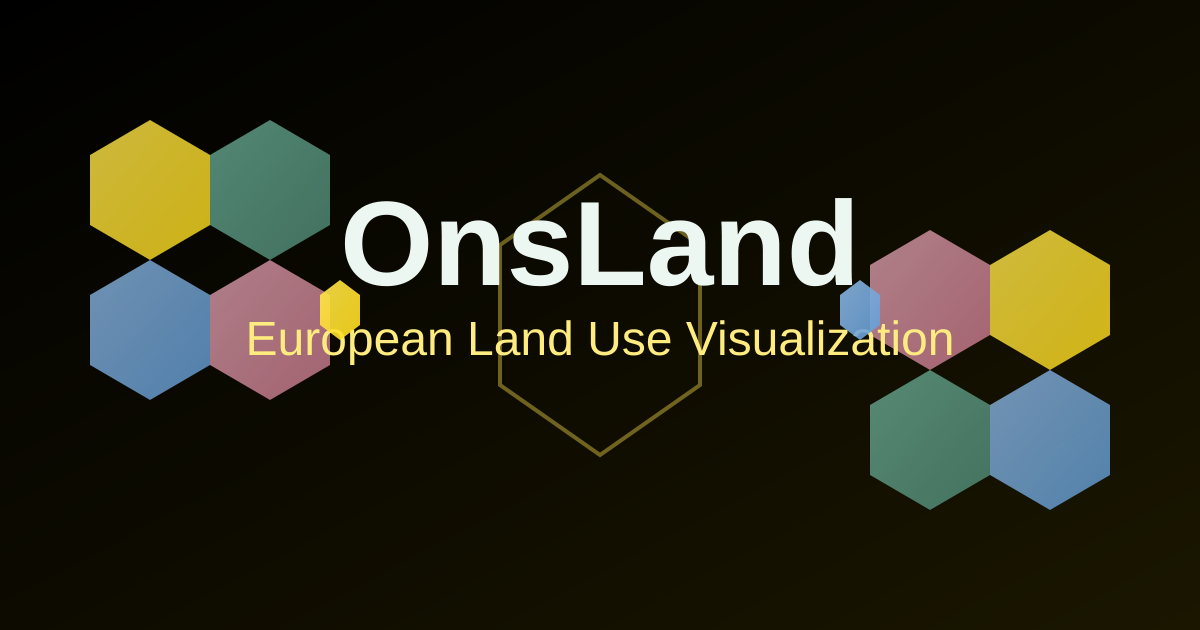
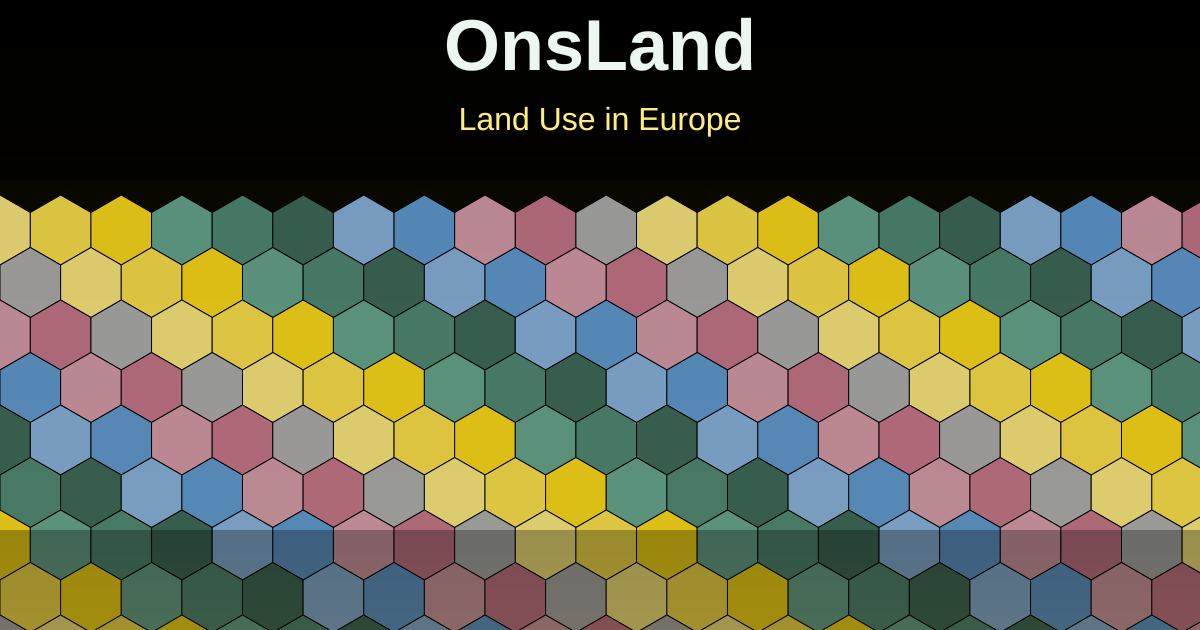
Update social media images with website-style design
- Created new social image generator that mimics website appearance
- Social images now show hexagonal grid visualization with theme colors
- Added title overlay "OnsLand - Land Use in Europe" on top of hexagons
- Images feature the actual website design aesthetic (dark background, colorful hexagons)
- Updated both og-image.png and twitter-image.png

diff --git a/generate-social-images.js b/generate-social-images.js
@@ -1,0 +1,155 @@
+const sharp = require('sharp');
+const fs = require('fs');
+const path = require('path');
+
+// Function to create hexagon path
+function hexagonPath(cx, cy, size) {
+  const points = [];
+  for (let i = 0; i < 6; i++) {
+    const angle = (Math.PI / 3) * i - Math.PI / 2;
+    const x = cx + size * Math.cos(angle);
+    const y = cy + size * Math.sin(angle);
+    points.push(`${x},${y}`);
+  }
+  return `M ${points.join(' L ')} Z`;
+}
+
+// Generate hexagon grid for website visualization
+function generateHexagonGrid(width, height, startY) {
+  const hexSize = 35;
+  const hexWidth = hexSize * Math.sqrt(3);
+  const hexHeight = hexSize * 2;
+  const vertSpacing = hexHeight * 0.75;
+
+  const colors = [
+    'hsl(51, 100%, 75%)',   // Agriculture - yellow
+    'hsl(51, 100%, 65%)',
+    'hsl(51, 100%, 55%)',
+    'hsl(159, 27%, 53%)',   // Nature - green
+    'hsl(159, 27%, 43%)',
+    'hsl(159, 27%, 33%)',
+    'hsl(210, 58%, 71%)',   // Water - blue
+    'hsl(210, 58%, 61%)',
+    'hsl(345, 43%, 73%)',   // Urban - pink
+    'hsl(345, 43%, 63%)',
+    'hsl(0, 0%, 69%)',      // Other - gray
+  ];
+
+  let hexagons = '';
+  let colorIndex = 0;
+
+  // Calculate how many hexagons we need
+  const cols = Math.ceil(width / hexWidth) + 2;
+  const rows = Math.ceil((height - startY) / vertSpacing) + 2;
+
+  for (let row = 0; row < rows; row++) {
+    for (let col = 0; col < cols; col++) {
+      const x = col * hexWidth + (row % 2) * (hexWidth / 2);
+      const y = startY + row * vertSpacing + 50;
+
+      // Skip if outside visible area
+      if (x < -hexSize || x > width + hexSize || y < startY - hexSize || y > height + hexSize) {
+        continue;
+      }
+
+      const color = colors[colorIndex % colors.length];
+      colorIndex++;
+
+      hexagons += `
+        <path d="${hexagonPath(x, y, hexSize)}"
+              fill="${color}"
+              opacity="0.85"
+              stroke="#000"
+              stroke-width="1"/>
+      `;
+    }
+  }
+
+  return hexagons;
+}
+
+// Create social media image with website design
+function createSocialImage(width, height, filename) {
+  const headerHeight = 180;
+
+  const svg = `
+    <svg xmlns="http://www.w3.org/2000/svg" viewBox="0 0 ${width} ${height}">
+      <defs>
+        <linearGradient id="bgGradient" x1="0%" y1="0%" x2="0%" y2="100%">
+          <stop offset="0%" style="stop-color:#000;stop-opacity:1" />
+          <stop offset="100%" style="stop-color:hsl(51, 100%, 5%);stop-opacity:1" />
+        </linearGradient>
+
+        <!-- Shadow filter for title -->
+        <filter id="textShadow" x="-50%" y="-50%" width="200%" height="200%">
+          <feGaussianBlur in="SourceAlpha" stdDeviation="3"/>
+          <feOffset dx="0" dy="2" result="offsetblur"/>
+          <feComponentTransfer>
+            <feFuncA type="linear" slope="0.5"/>
+          </feComponentTransfer>
+          <feMerge>
+            <feMergeNode/>
+            <feMergeNode in="SourceGraphic"/>
+          </feMerge>
+        </filter>
+      </defs>
+
+      <!-- Background -->
+      <rect width="${width}" height="${height}" fill="url(#bgGradient)"/>
+
+      <!-- Hexagon grid visualization (simulating the website) -->
+      ${generateHexagonGrid(width, height, headerHeight)}
+
+      <!-- Semi-transparent overlay for header area -->
+      <rect x="0" y="0" width="${width}" height="${headerHeight}"
+            fill="rgba(0, 0, 0, 0.75)"/>
+
+      <!-- Title -->
+      <text x="${width / 2}" y="${headerHeight / 2 - 20}"
+            font-family="-apple-system, BlinkMacSystemFont, 'Segoe UI', Arial, sans-serif"
+            font-size="${width > 800 ? 72 : 56}"
+            font-weight="bold"
+            fill="hsl(141, 41%, 95%)"
+            text-anchor="middle"
+            filter="url(#textShadow)">OnsLand</text>
+
+      <!-- Subtitle -->
+      <text x="${width / 2}" y="${headerHeight / 2 + 40}"
+            font-family="-apple-system, BlinkMacSystemFont, 'Segoe UI', Arial, sans-serif"
+            font-size="${width > 800 ? 32 : 26}"
+            fill="hsl(51, 100%, 75%)"
+            text-anchor="middle"
+            filter="url(#textShadow)">Land Use in Europe</text>
+
+      <!-- Bottom gradient overlay (subtle) -->
+      <rect x="0" y="${height - 100}" width="${width}" height="100"
+            fill="url(#bgGradient)" opacity="0.3"/>
+    </svg>
+  `;
+
+  return sharp(Buffer.from(svg))
+    .resize(width, height)
+    .png()
+    .toFile(path.join(__dirname, 'public', filename));
+}
+
+async function generateImages() {
+  try {
+    console.log('Generating social media images with website design...\n');
+
+    // Generate Open Graph image (1200x630)
+    await createSocialImage(1200, 630, 'og-image.png');
+    console.log('✓ Generated og-image.png (1200x630)');
+
+    // Generate Twitter Card image (1200x675)
+    await createSocialImage(1200, 675, 'twitter-image.png');
+    console.log('✓ Generated twitter-image.png (1200x675)');
+
+    console.log('\n✨ Social media images generated successfully!');
+  } catch (error) {
+    console.error('Error generating images:', error);
+    process.exit(1);
+  }
+}
+
+generateImages();
